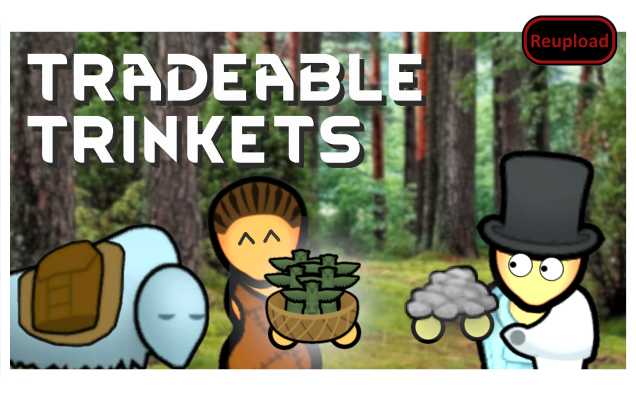
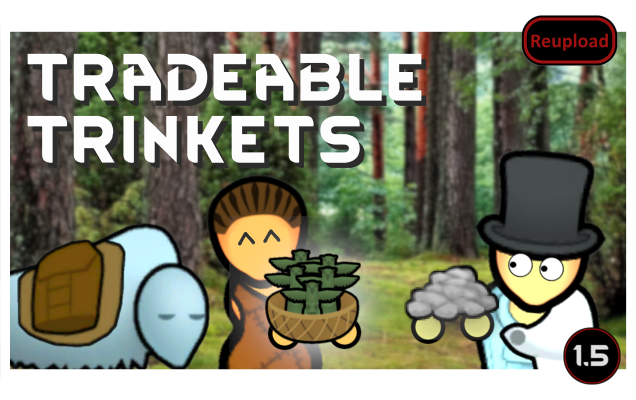
Mod updated for 1.5 and passed autotests

Changed region(s): [[0.8664, 0.81, 0.9858, 0.96]]

diff --git a/Source/CM_Tradeable_Trinkets/JoyGiver_PlayWithTrinket.cs b/Source/CM_Tradeable_Trinkets/JoyGiver_PlayWithTrinket.cs
@@ -8,7 +8,7 @@ namespace CM_Tradeable_Trinkets;
 
 public class JoyGiver_PlayWithTrinket : JoyGiver
 {
-    private static readonly List<Thing> tmpCandidates = new List<Thing>();
+    private static readonly List<Thing> tmpCandidates = [];
 
     public override Job TryGiveJob(Pawn pawn)
     {
@@ -30,6 +30,27 @@ public class JoyGiver_PlayWithTrinket : JoyGiver
 
     protected virtual Thing BestTrinket(Pawn pawn, Predicate<Thing> extraValidator)
     {
+        var innerContainer = pawn.inventory.innerContainer;
+        foreach (var trinket in innerContainer)
+        {
+            if (SearchSetWouldInclude(trinket) && Predicate(trinket))
+            {
+                return trinket;
+            }
+        }
+
+        tmpCandidates.Clear();
+        GetSearchSet(pawn, tmpCandidates);
+        if (tmpCandidates.Count == 0)
+        {
+            return null;
+        }
+
+        var result = GenClosest.ClosestThing_Global_Reachable(pawn.Position, pawn.Map, tmpCandidates,
+            PathEndMode.OnCell, TraverseParms.For(pawn), 9999f, Predicate);
+        tmpCandidates.Clear();
+        return result;
+
         bool Predicate(Thing t)
         {
             if (!t.Spawned)
@@ -59,27 +80,6 @@ public class JoyGiver_PlayWithTrinket : JoyGiver
 
             return extraValidator == null || extraValidator(t);
         }
-
-        var innerContainer = pawn.inventory.innerContainer;
-        foreach (var trinket in innerContainer)
-        {
-            if (SearchSetWouldInclude(trinket) && Predicate(trinket))
-            {
-                return trinket;
-            }
-        }
-
-        tmpCandidates.Clear();
-        GetSearchSet(pawn, tmpCandidates);
-        if (tmpCandidates.Count == 0)
-        {
-            return null;
-        }
-
-        var result = GenClosest.ClosestThing_Global_Reachable(pawn.Position, pawn.Map, tmpCandidates,
-            PathEndMode.OnCell, TraverseParms.For(pawn), 9999f, Predicate);
-        tmpCandidates.Clear();
-        return result;
     }
 
     protected virtual bool SearchSetWouldInclude(Thing thing)

diff --git a/Source/CM_Tradeable_Trinkets/Trinket.cs b/Source/CM_Tradeable_Trinkets/Trinket.cs
@@ -2,6 +2,4 @@
 
 namespace CM_Tradeable_Trinkets;
 
-public class Trinket : ThingWithComps
-{
-}
+public class Trinket : ThingWithComps;

diff --git a/README.md b/README.md
@@ -4,6 +4,8 @@
 
 Update of Captain Muscles (Nathan Harbour) mod https://steamcommunity.com/sharedfiles/filedetails/?id=2446986597
 
+- Added russian translation by Tkhakiro
+
 ![Image](https://i.imgur.com/pufA0kM.png)
 
 	
@@ -97,10 +99,13 @@ https://steamcommunity.com/sharedfiles/filedetails/?id=2446986597]![Image](https
 
 -  See if the the error persists if you just have this mod and its requirements active.
 -  If not, try adding your other mods until it happens again.
--  Post your error-log using https://steamcommunity.com/workshop/filedetails/?id=818773962]HugsLib and command Ctrl+F12
+-  Post your error-log using https://steamcommunity.com/workshop/filedetails/?id=818773962]HugsLib or the standalone https://steamcommunity.com/sharedfiles/filedetails/?id=2873415404]Uploader and command Ctrl+F12
 -  For best support, please use the Discord-channel for error-reporting.
 -  Do not report errors by making a discussion-thread, I get no notification of that.
 -  If you have the solution for a problem, please post it to the GitHub repository.
+-  Use https://github.com/RimSort/RimSort/releases/latest]RimSort to sort your mods
 
 
-https://steamcommunity.com/sharedfiles/filedetails/changelog/2966786575]Last updated 2023-05-12
+
+https://steamcommunity.com/sharedfiles/filedetails/changelog/2966786575]![Image](https://img.shields.io/github/v/release/emipa606/TradeableTrinkets?label=latest%20version&style=plastic&color=9f1111&labelColor=black)
+
